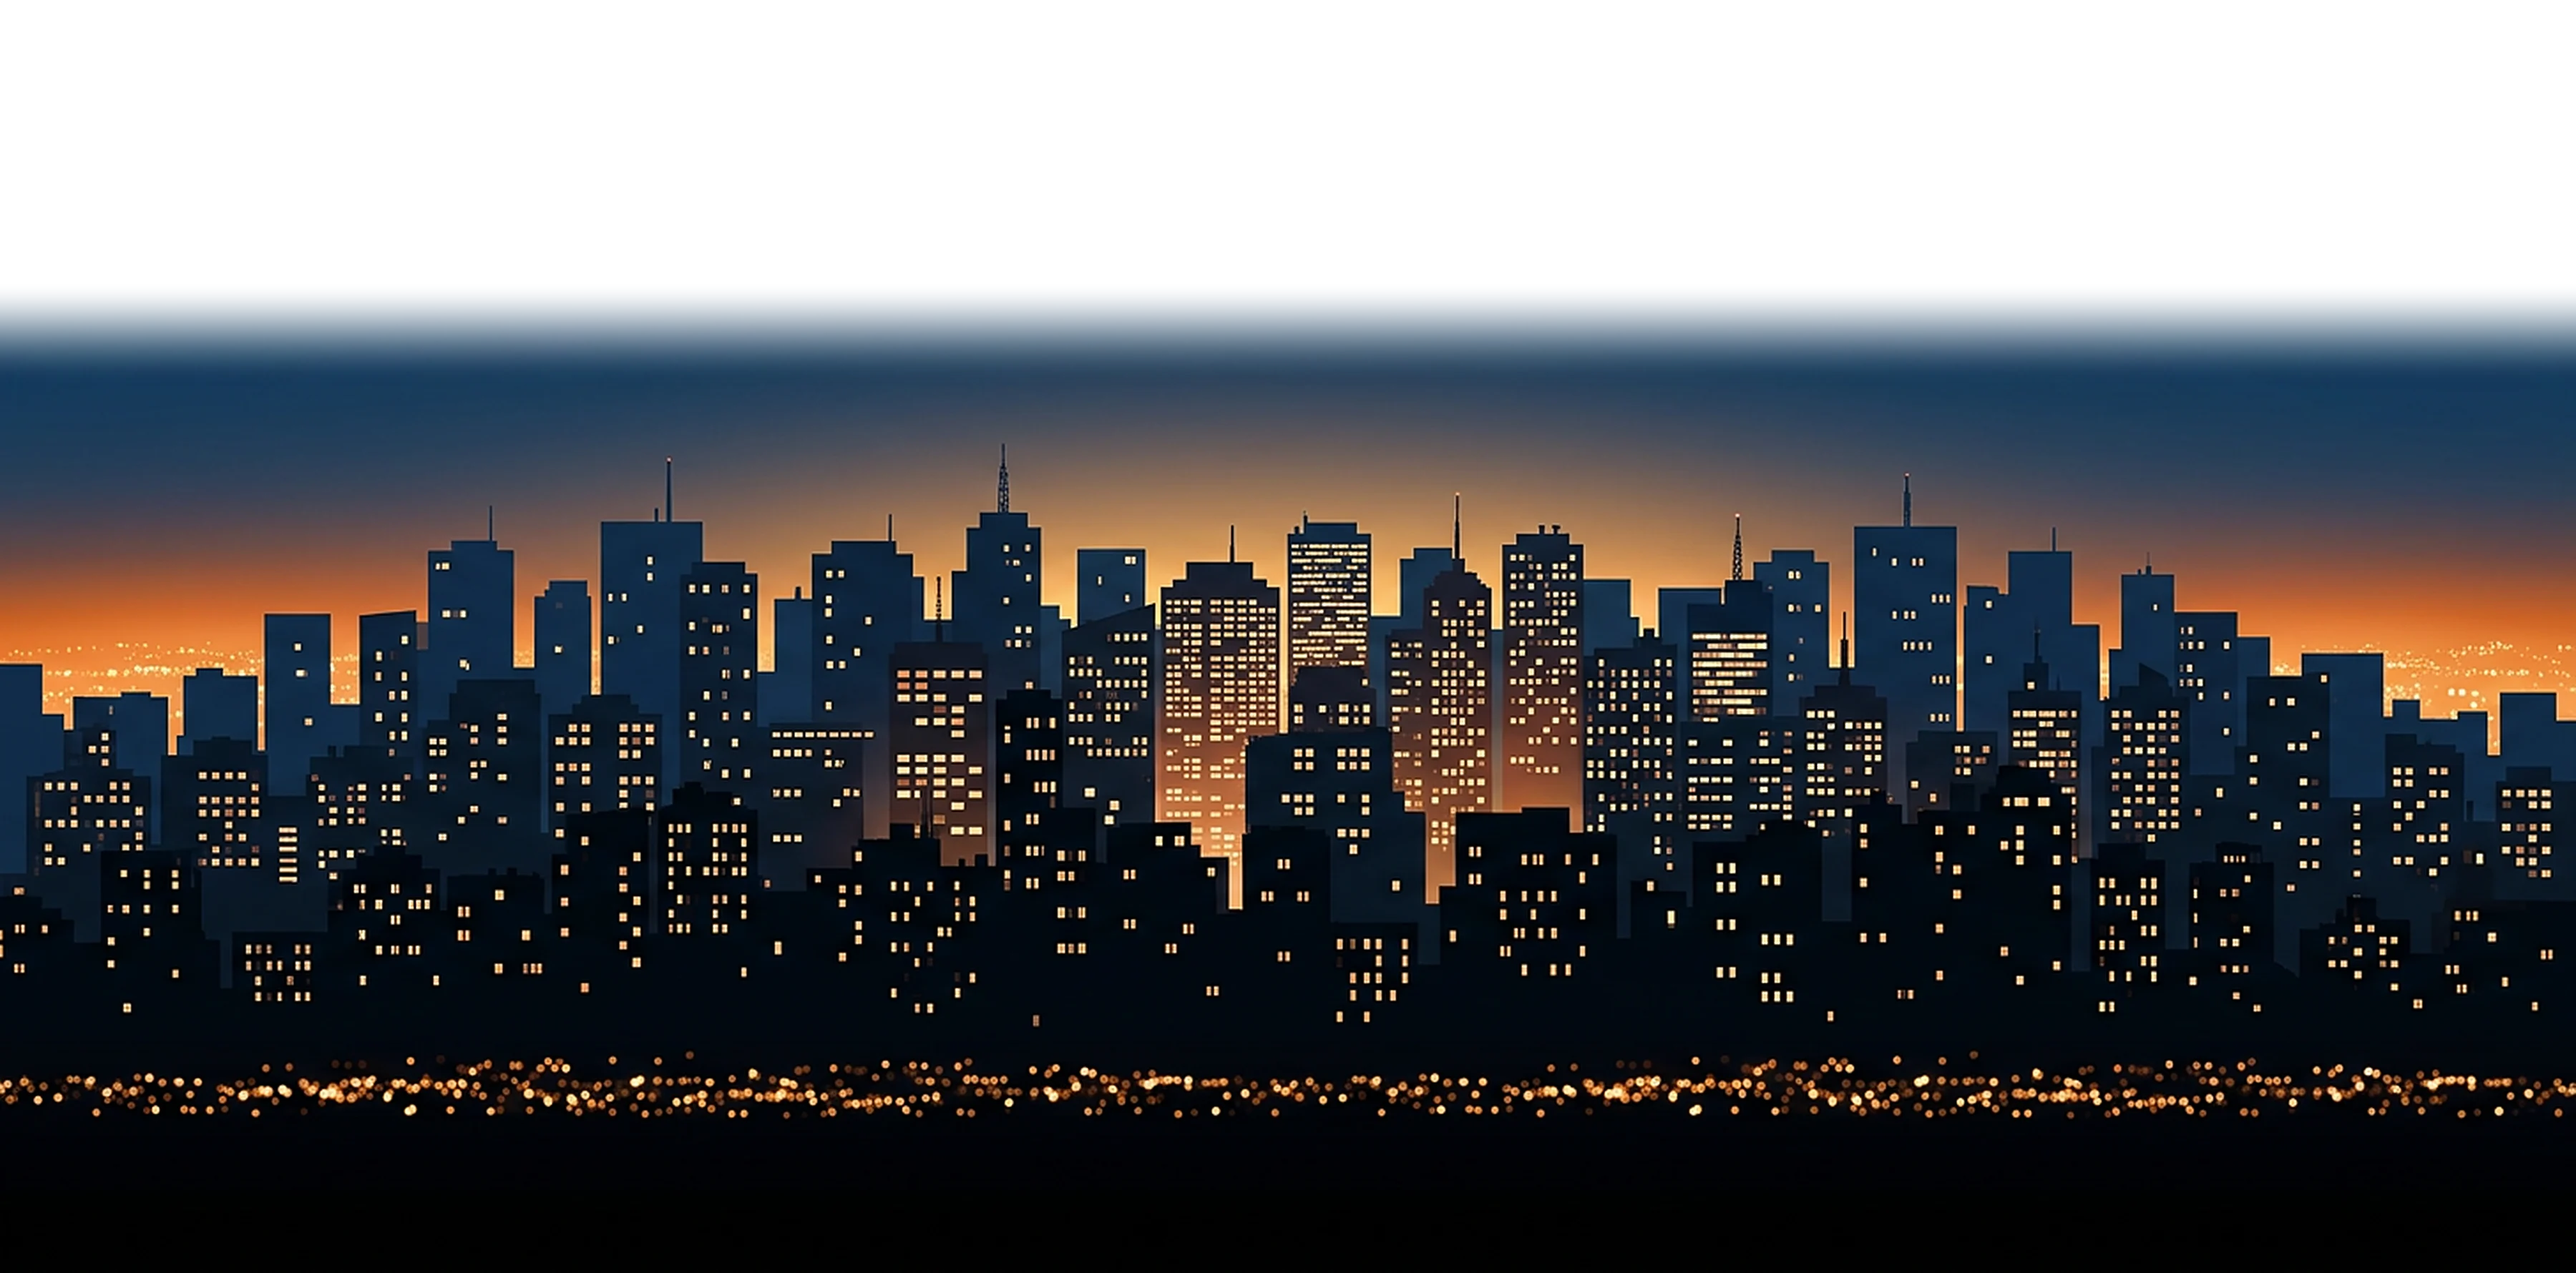
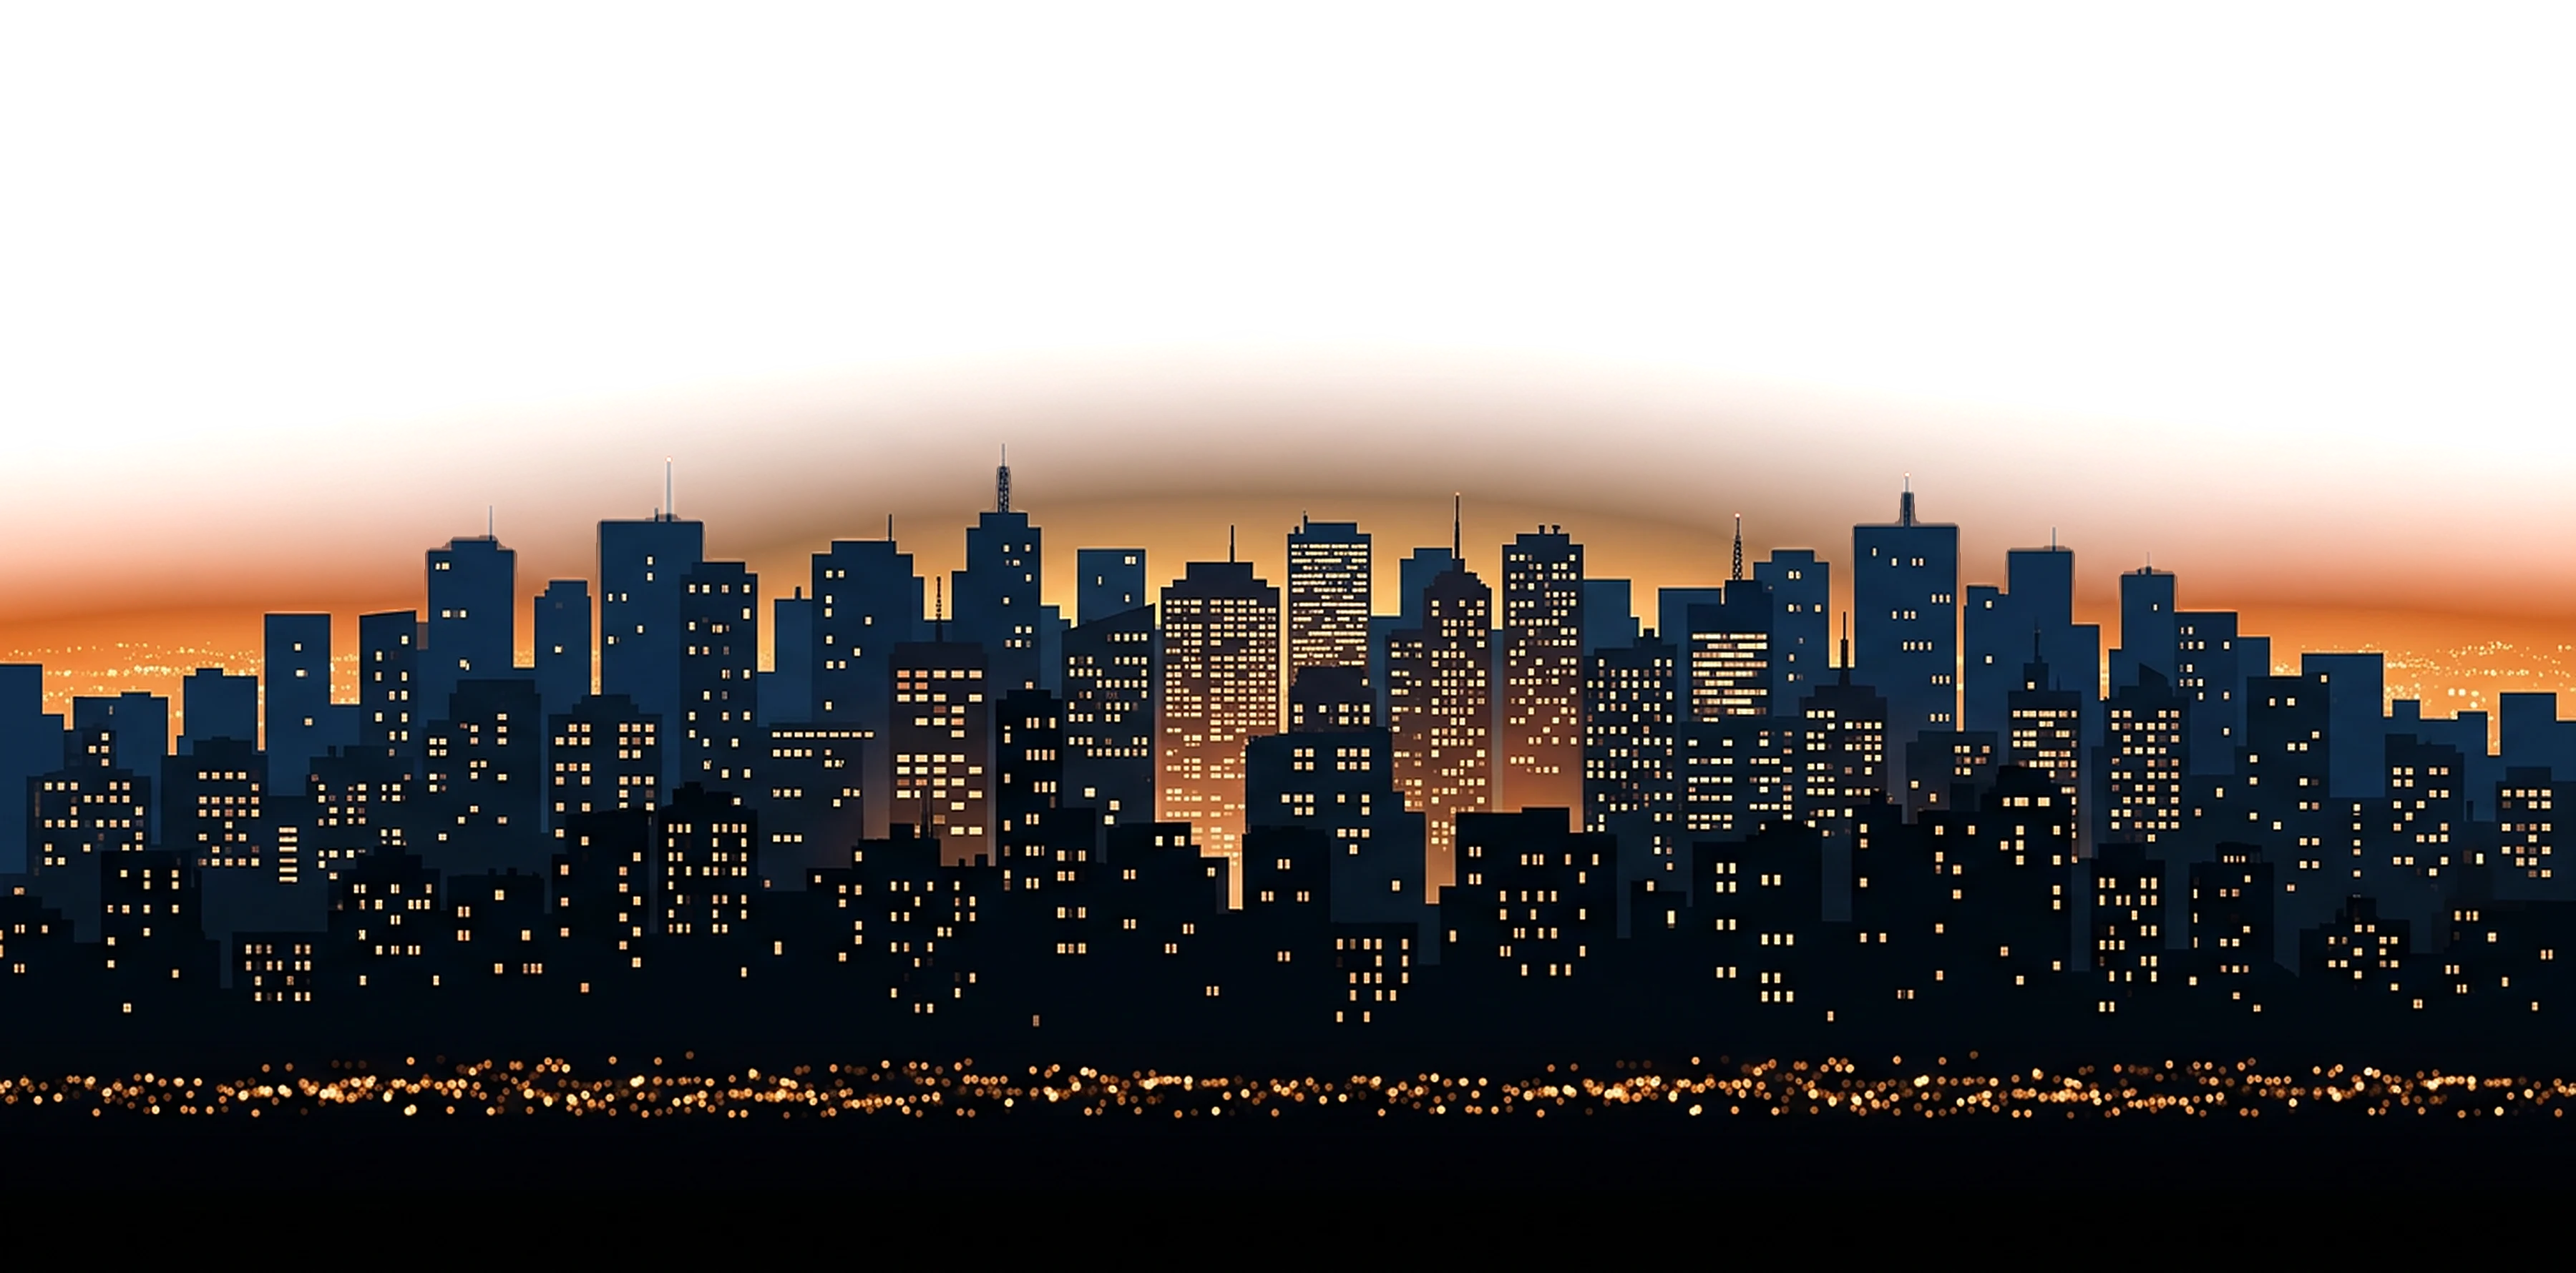
Cielo: las estrellas llegan hasta el contorno exacto de cada paisaje (cielo de la foto transparente columna a columna, resplandor semitransparente); 4 temas nuevos (Alba, Amanecer, Tejados, Río) y el Faro con foto

Changed region(s): [[0.0, 0.2163, 1.0, 0.4944]]

diff --git a/personaliza/cielo.js b/personaliza/cielo.js
@@ -25,20 +25,24 @@
   /* 4-nov: el cielo a sangre, con un paisaje abajo. Todo dibujado aquí, sin fotos: sirve a cualquier tamaño de impresión */
   var ESCENAS = {
     bosque:  { name: 'Bosque',  sky: ['#05201f', '#0d3a40', '#1f5a66'] },
-    montana: { name: 'Montaña', sky: ['#14152a', '#22243f', '#33365b'] },
-    cumbres: { name: 'Cumbres', sky: ['#070d1b', '#18223d', '#303c5b'] },
-    ciudad:  { name: 'Ciudad',  sky: ['#04152a', '#0a2846', '#11395c'] },
-    mar:     { name: 'Mar',     sky: ['#14133f', '#2a2670', '#5b4a9a'] },
-    desierto: { name: 'Desierto', sky: ['#040312', '#07051c', '#0b0828'] },
-    pueblo:  { name: 'Pueblo',  sky: ['#040b18', '#071429', '#0a1c3a'] },
-    lago:    { name: 'Lago',    sky: ['#030e15', '#051a26', '#082536'] },
-    campo:   { name: 'Campo',   sky: ['#050913', '#0a1020', '#0e162d'] }
+    montana: { name: 'Montaña', sky: ['#151626', '#23253f', '#32355b'] },
+    cumbres: { name: 'Cumbres', sky: ['#050a13', '#091220', '#0d1a2f'] },
+    alba: { name: 'Alba', sky: ['#030a16', '#061225', '#091a36'] },
+    amanecer: { name: 'Amanecer', sky: ['#050c17', '#091527', '#0d1e38'] },
+    mar: { name: 'Faro', sky: ['#090a1b', '#10122e', '#171a42'] },
+    desierto: { name: 'Desierto', sky: ['#040310', '#07051c', '#0b0828'] },
+    lago: { name: 'Lago', sky: ['#030f16', '#051925', '#082536'] },
+    campo: { name: 'Campo', sky: ['#050912', '#090f1e', '#0e162c'] },
+    pueblo: { name: 'Pueblo', sky: ['#040b17', '#071327', '#0a1c39'] },
+    ciudad: { name: 'Ciudad', sky: ['#061727', '#0b2741', '#10395d'] },
+    rio: { name: 'Río', sky: ['#000915', '#010f23', '#021632'] },
+    tejados: { name: 'Tejados', sky: ['#0a0f18', '#101929', '#18253b'] }
   };
-  /* 6-nov: Montaña, Cumbres y Ciudad son fotos (Firefly), con el cielo ya fundido a transparente: las estrellas de la fecha se
+  /* 6-nov: Los temas con foto (Firefly), con el cielo ya fundido a transparente: las estrellas de la fecha se
      ven por encima de los picos. Solo se cargan en cielo.html; si no llegan, se dibuja la montaña de antes */
-  var FOTOS = { montana: 'paisaje-montana.webp?v=1', cumbres: 'paisaje-montana-noche.webp?v=1', ciudad: 'paisaje-ciudad.webp?v=1',
-    desierto: 'paisaje-desierto.webp?v=1', pueblo: 'paisaje-pueblo.webp?v=1', lago: 'paisaje-lago.webp?v=1', campo: 'paisaje-campo.webp?v=1' }, IMG = {};
-  var FUNDE = { montana: .33, cumbres: .34, ciudad: .22, desierto: .415, pueblo: .281, lago: .438, campo: .32 };   // altura (fracción de la foto) donde su cielo empieza a ser visible
+  /* 6-nov (tarde): el cielo de cada foto es transparente hasta el contorno exacto del paisaje (y el resplandor del
+     amanecer, semitransparente según su brillo): las estrellas llegan hasta el borde. Preparado con build.py */
+  var FOTOS = { montana: 'paisaje-montana.webp?v=2', cumbres: 'paisaje-cumbres.webp?v=2', alba: 'paisaje-alba.webp?v=2', amanecer: 'paisaje-amanecer.webp?v=2', mar: 'paisaje-mar.webp?v=2', desierto: 'paisaje-desierto.webp?v=2', lago: 'paisaje-lago.webp?v=2', campo: 'paisaje-campo.webp?v=2', pueblo: 'paisaje-pueblo.webp?v=2', ciudad: 'paisaje-ciudad.webp?v=2', rio: 'paisaje-rio.webp?v=2', tejados: 'paisaje-tejados.webp?v=2' }, IMG = {};
   var BASE = ((document.currentScript && document.currentScript.src) || 'personaliza/cielo.js').replace(/cielo\.js(\?.*)?$/, '');
   var fotosReady = !/\/cielo(\.html)?$/.test(location.pathname) ? Promise.resolve() : Promise.all(Object.keys(FOTOS).map(function (k) {
     return new Promise(function (res) { var im = new Image(); im.onload = function () { IMG[k] = im; res(); }; im.onerror = function () { res(); }; im.src = BASE + FOTOS[k]; });
@@ -147,7 +151,7 @@
     ctx.fillStyle = '#000'; ctx.fillRect(0, H * .86, W, H * .14);
   }
   function drawEscena(ctx, W, H, o, T) {
-    var im = IMG[T.escena], fin = im ? H * .85 - W * im.naturalHeight / im.naturalWidth * (1 - FUNDE[T.escena]) : H * .8;   // con foto, el degradado llega a su color justo donde la foto aparece
+    var im = IMG[T.escena], fin = im ? H * .85 - W * im.naturalHeight / im.naturalWidth : H * .8;   // con foto, el degradado llega a su color donde empieza la foto
     var g = ctx.createLinearGradient(0, 0, 0, fin); g.addColorStop(0, T.sky[0]); g.addColorStop(.55, T.sky[1]); g.addColorStop(1, T.sky[2]);
     ctx.fillStyle = g; ctx.fillRect(0, 0, W, H);
     var b = Object.assign({}, o, { grid: false }), C = Object.assign({}, T, { disk: 'rgba(0,0,0,0)' });

diff --git a/cielo-mapa.html b/cielo-mapa.html
@@ -78,7 +78,7 @@
 <script src="personaliza/comun.js?v=13f2501d"></script>
 <script src="https://cdn.jsdelivr.net/npm/tz-lookup@6.1.25/tz.js"></script>
 <script src="personaliza/cielo-datos.js?v=1a0d033a"></script>
-<script src="personaliza/cielo.js?v=2729ac2d"></script>
+<script src="personaliza/cielo.js?v=07a3298a"></script>
 <script src="personaliza/extra.js?v=9aab7385"></script>
 <script src="personaliza/mapa.js?v=f4a4aa37"></script>
 <script>

diff --git a/constelacion.html b/constelacion.html
@@ -70,7 +70,7 @@
 <script src="photo-handoff.js?v=9639e829"></script>
 <script src="personaliza/comun.js?v=13f2501d"></script>
 <script src="personaliza/cielo-datos.js?v=1a0d033a"></script>
-<script src="personaliza/cielo.js?v=2729ac2d"></script>
+<script src="personaliza/cielo.js?v=07a3298a"></script>
 <script src="personaliza/signos-datos.js?v=44e22d8e"></script>
 <script src="personaliza/extra.js?v=9aab7385"></script>
 <script>

diff --git a/dos-cielos.html b/dos-cielos.html
@@ -83,7 +83,7 @@
 <script src="personaliza/comun.js?v=13f2501d"></script>
 <script src="https://cdn.jsdelivr.net/npm/tz-lookup@6.1.25/tz.js"></script>
 <script src="personaliza/cielo-datos.js?v=1a0d033a"></script>
-<script src="personaliza/cielo.js?v=2729ac2d"></script>
+<script src="personaliza/cielo.js?v=07a3298a"></script>
 <script src="personaliza/extra.js?v=9aab7385"></script>
 <script>
 (function () {

diff --git a/luna.html b/luna.html
@@ -74,7 +74,7 @@
 <script src="personaliza/comun.js?v=13f2501d"></script>
 <script src="https://cdn.jsdelivr.net/npm/tz-lookup@6.1.25/tz.js"></script>
 <script src="personaliza/cielo-datos.js?v=1a0d033a"></script>
-<script src="personaliza/cielo.js?v=2729ac2d"></script>
+<script src="personaliza/cielo.js?v=07a3298a"></script>
 <script src="personaliza/extra.js?v=9aab7385"></script>
 <script>
 (function () {

diff --git a/cielo.html b/cielo.html
@@ -111,7 +111,7 @@
 <script src="photo-handoff.js?v=9639e829"></script>
 <script src="personaliza/comun.js?v=13f2501d"></script>
 <script src="personaliza/cielo-datos.js?v=1a0d033a"></script>
-<script src="personaliza/cielo.js?v=2729ac2d"></script>
+<script src="personaliza/cielo.js?v=07a3298a"></script>
 <script>
 (function () {
   var $ = function (id) { return document.getElementById(id); };

diff --git a/lunas.html b/lunas.html
@@ -72,7 +72,7 @@
 <script src="photo-handoff.js?v=9639e829"></script>
 <script src="personaliza/comun.js?v=13f2501d"></script>
 <script src="personaliza/cielo-datos.js?v=1a0d033a"></script>
-<script src="personaliza/cielo.js?v=2729ac2d"></script>
+<script src="personaliza/cielo.js?v=07a3298a"></script>
 <script src="personaliza/extra.js?v=9aab7385"></script>
 <script>
 (function () {

diff --git a/personaliza/_paisajes_build.py b/personaliza/_paisajes_build.py
@@ -1,0 +1,52 @@
+# Paisajes del cielo: el cielo de la foto se vuelve transparente columna a columna (contorno real del paisaje),
+# el resplandor queda semitransparente según su brillo y el color se «despremultiplica» sobre el cielo liso,
+# para que encima del degradado se vea igual que la foto y por detrás asomen las estrellas hasta el borde.
+import sys, glob, json, numpy as np
+from PIL import Image, ImageFilter
+from scipy.ndimage import minimum_filter1d, median_filter, gaussian_filter
+D='C:/Users/marc-/Downloads/'; OUT='C:/Users/marc-/Desktop/Desktop_Claude/momenturies-formatos/_web/personaliza/'
+SP=sys.argv[1]
+SRC={
+ 'montana':'Firefly_Hazla más realista y más espectacular 490357.png',
+ 'cumbres':'Firefly_Gemini Flash_Hazla más realista y más espectacular 490357.png',
+ 'ciudad':'Firefly_Gemini Flash_Wide panoramic night city skyline*',
+ 'desierto':'*desert landscape*','pueblo':'*Mediterranean coastal*','lago':'*alpine lake*','campo':'*night countryside*',
+ 'amanecer':'*coastal landscape at the very first light*','alba':'*mountain landscape at the first light*',
+ 'tejados':'*rooftops of a generic*','rio':'*modern city by a calm river*','mar':'*classic white lighthouse*'}
+def build(k, T=16):
+    im=Image.open(glob.glob(D+SRC[k])[0]).convert('RGB'); W0,H0=im.size
+    if k=='cumbres':   # fuera la luna de la foto
+        cx,cy,r=int(.6925*W0),int(.413*H0),int(.016*W0); im.paste(im.crop((cx-4*r,cy-r,cx-2*r,cy+r)),(cx-r,cy-r))
+    det=im if W0<=1600 else im.resize((1456,round(1456*H0/W0)),Image.LANCZOS)
+    a=np.asarray(det.filter(ImageFilter.MedianFilter(7)),np.float32); hD,wD=a.shape[:2]
+    B=np.median(a[int(.02*hD):int(.1*hD)].reshape(-1,3),0)
+    LUM=lambda c:c[...,0]*.299+c[...,1]*.587+c[...,2]*.114; lB=LUM(B)
+    y0=int((.38 if k=='cumbres' else .04)*hD); ema=a[y0].copy(); hor=np.full(wD,hD-1); done=np.zeros(wD,bool)
+    for y in range(y0,hD):
+        d=np.linalg.norm(a[y]-ema,axis=1); dB=np.linalg.norm(a[y]-B,axis=1)
+        hit=((d>T)|((dB>22)&(LUM(a[y])<=lB+6)))&~done; hor[hit]=y; done|=hit
+        ema=np.where(done[:,None],ema,.5*ema+.5*a[y])
+    med=median_filter(hor,size=31,mode='nearest'); hor=np.minimum(hor,med+.02*hD)   # columnas sin detectar: el contorno de sus vecinas
+    if k=='mar':   # el agua iluminada se confunde con el cielo: horizonte del mar fijado a mano
+        xs=np.arange(wD)>.4*wD; hor[xs]=np.minimum(hor[xs],int(.735*hD))
+    hor=minimum_filter1d(hor,5)
+    Wo=3600; Ho=round(Wo*H0/W0)
+    big=im.resize((Wo,Ho),Image.LANCZOS)
+    if W0<3000: big=big.filter(ImageFilter.UnsharpMask(2,50,2))
+    o=np.asarray(big,np.float32)
+    h=np.interp(np.linspace(0,wD-1,Wo),np.arange(wD),hor.astype(np.float32))*(Ho/hD)
+    f=max(4,.006*Ho); Y=np.arange(Ho,dtype=np.float32)[:,None]
+    L=np.clip((Y-(h[None,:]-f))/f,0,1); L=L*L*(3-2*L)
+    sm=gaussian_filter(np.asarray(det.filter(ImageFilter.MedianFilter(7)).resize((Wo,Ho),Image.BILINEAR),np.float32),(3,3,0))
+    lum=lambda c:c[...,0]*.299+c[...,1]*.587+c[...,2]*.114
+    att=np.clip((lum(sm)-lum(B)-5)/70,0,1)
+    if k=='cumbres': att[:int(.40*Ho)]=0   # su propia Vía Láctea fuera: la pinta el cielo de la fecha
+    al=np.maximum(L,att)
+    rgb=np.where(al[...,None]>.01,(o-(1-al[...,None])*B)/np.maximum(al[...,None],.01),B)
+    out=np.dstack([np.clip(rgb,0,255),al*255]).astype(np.uint8)
+    Image.fromarray(out,'RGBA').save(OUT+'paisaje-%s.webp'%k,quality=86,alpha_quality=90,method=6)
+    # control: máscara en blanco sobre gris
+    Image.fromarray((al*255).astype(np.uint8)).resize((600,round(600*Ho/Wo))).save(SP+'/mask_%s.png'%k)
+    return '#%02x%02x%02x'%tuple(int(round(c)) for c in B), round(float(h.min()/Ho),3)
+res={k:build(k) for k in (sys.argv[2:] or SRC)}
+print(json.dumps(res))
